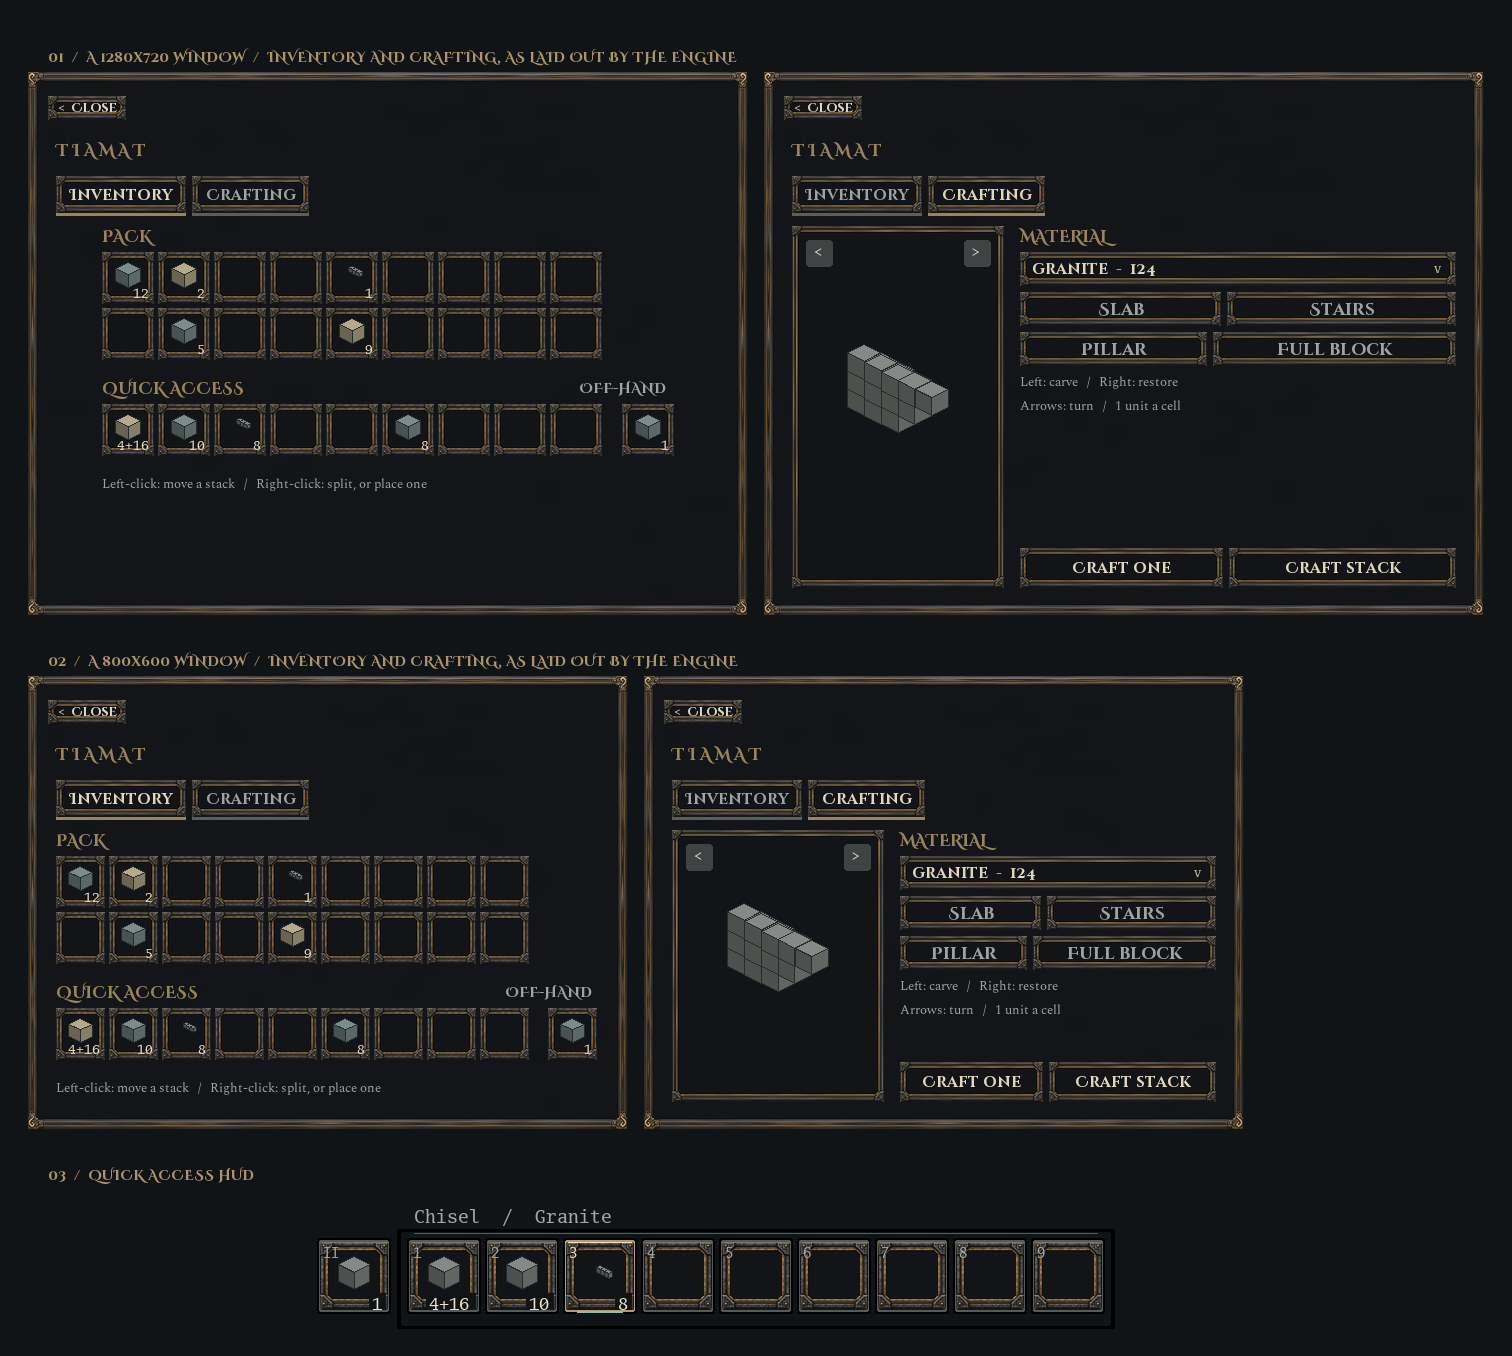
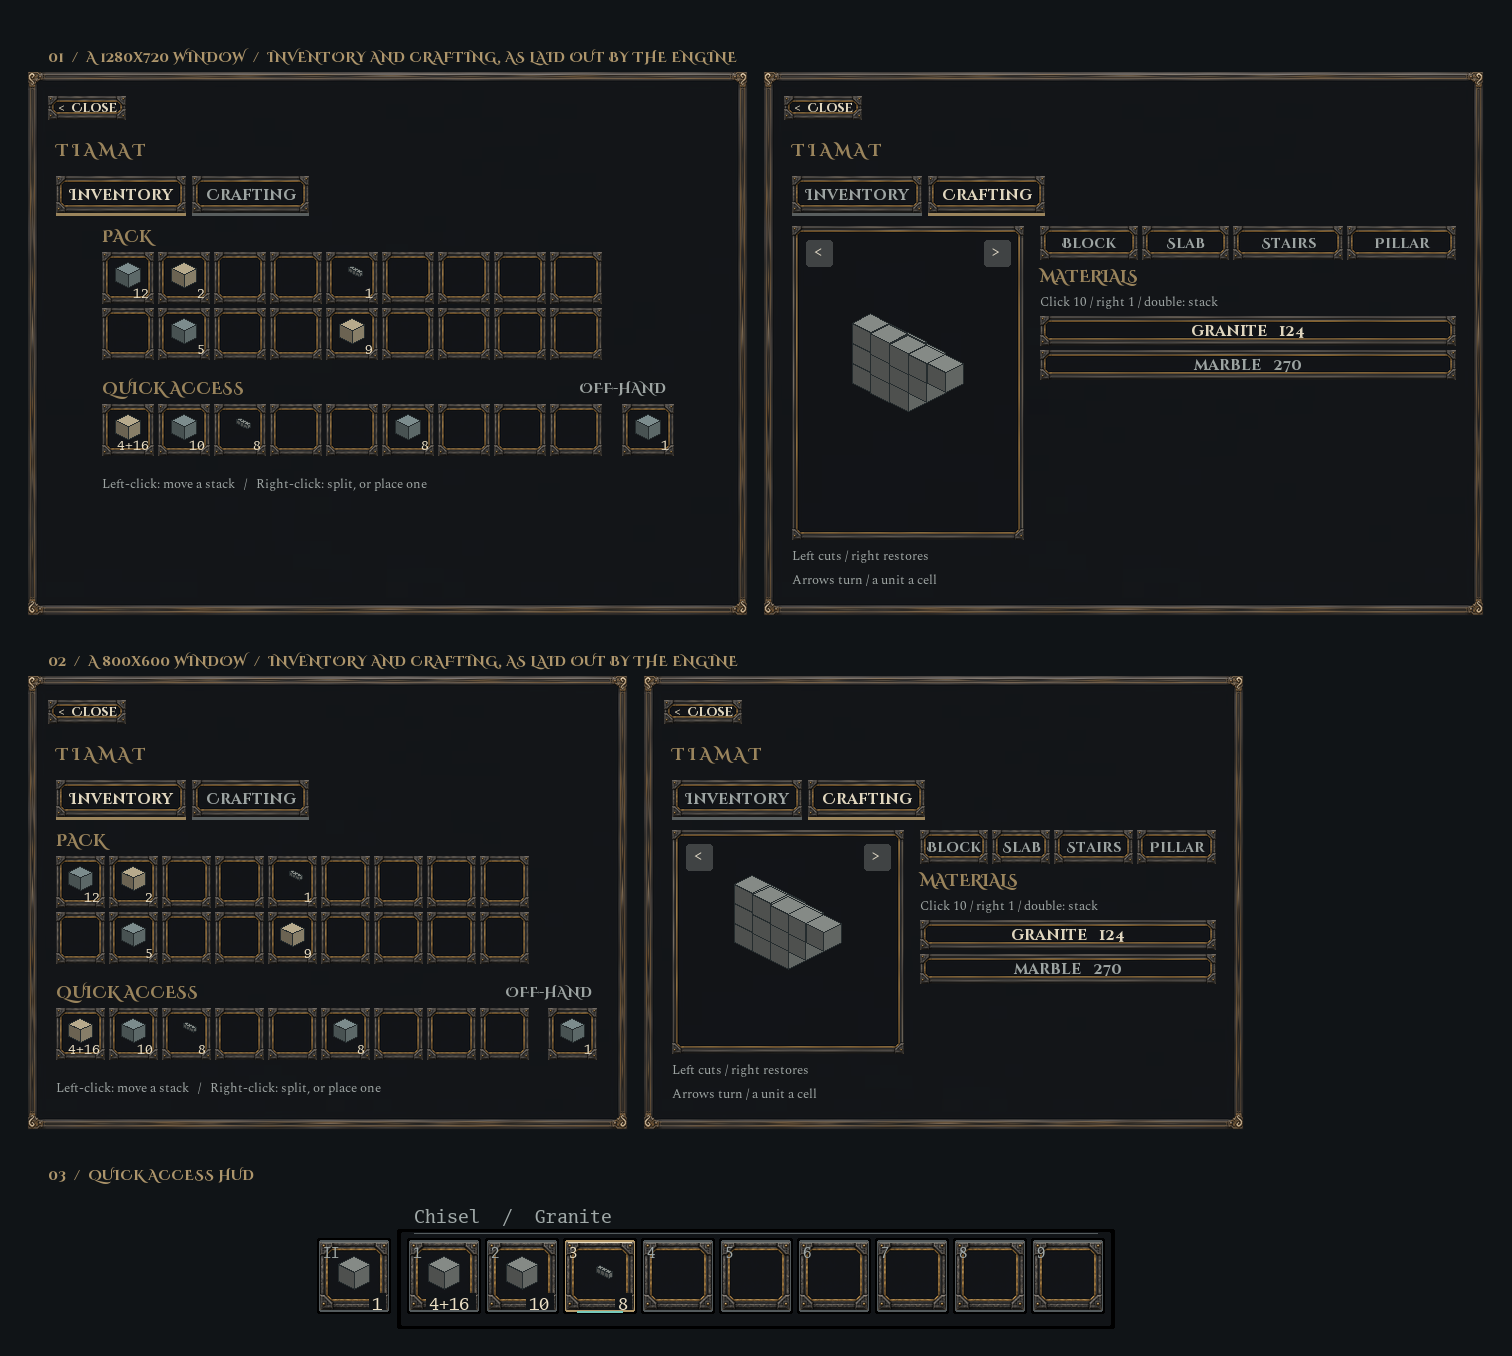
feat: the crafter is a cube and a list of materials you click
The dropdown and the Craft one / Craft stack buttons are gone. Carve on
the left; on the right the presets as one row, then every loose material
the player carries as a row that crafts the shape from itself: click for
10, right-click for 1, double-click to top up to a stack. Each row names
its own material, so a queued click never crafts from another one, and a
spent material leaves the list.

The list scrolls, the one place anything does: a pack holds up to 28
materials and the sheet has room for a handful. The native check lets a
scroll box's contents run past the sheet and measures everything else as
before. The result line stays on the empty screen, so the craft that used
the last material still says what it made, and it is shorter ("Made 10
granite") to fit the column at 800x600.

Right-click and double-click need the button's click on the event: engine
ask 17. Until then a press arrives without one and makes 10.

Changed region(s): [[0.5284, 0.1549, 0.9636, 0.4336], [0.4352, 0.5885, 0.8082, 0.8363], [0.4663, 0.6504, 0.5595, 0.7434]]

diff --git a/tests/native/src/main.rs b/tests/native/src/main.rs
@@ -35,6 +35,9 @@ use tiamat_core::{
 
 const MOD: &str = "tiamat_default_ui";
 const ALICE: [u8; 32] = [1; 32];
+/// The crafter's rows: clicking one crafts the carved shape from it.
+const GRANITE: &str = "m/fixture:granite";
+const MARBLE: &str = "m/fixture:marble";
 const BOB: [u8; 32] = [2; 32];
 
 fn mod_dir() -> PathBuf {
@@ -383,10 +386,10 @@ fn empty_crafter() {
 
 fn full_and_empty_masks_do_not_spend() {
     let mut r = Rig::crafter(&[], 90);
-    r.press(ALICE, "make");
+    r.press(ALICE, GRANITE);
     assert!(r.bag(|b| b.takes.is_empty()));
     r.event(ALICE, Wire::Chiselled { name: "cut".into(), shape: 0 });
-    r.press(ALICE, "make");
+    r.press(ALICE, GRANITE);
     assert!(r.bag(|b| b.takes.is_empty()));
     println!("ok  a full or empty mask spends nothing");
 }
@@ -395,46 +398,48 @@ fn presets_conserve_units() {
     for (preset, cost) in [("slab", 9), ("stairs", 18), ("pillar", 3)] {
         let mut r = Rig::crafter(&[], 90);
         r.press(ALICE, preset);
-        r.press(ALICE, "make");
+        r.press(ALICE, GRANITE);
+        // A click makes ten, or as many as 90 units allow.
+        let made = (90 / cost).min(10);
         let (take, give) = r.bag(|b| (b.takes[0], b.gives[0].clone()));
-        assert_eq!(take.1, cost, "{preset}");
+        assert_eq!(take.1, cost * made, "{preset}");
         let shape = give.shape.expect("a shaped stack");
-        assert_eq!(give.count(), 1);
+        assert_eq!(give.count(), made);
         assert_eq!(cells(shape.occupancy()) * give.count(), take.1, "{preset} created or destroyed units");
     }
     println!("ok  slab 9, stairs 18, pillar 3, and units are conserved");
 }
 
-fn stacks_are_limited() {
+fn a_click_makes_ten_or_what_there_is() {
     let mut r = Rig::crafter(&[], 100);
     r.press(ALICE, "slab");
-    r.press(ALICE, "make_stack");
-    assert_eq!(r.bag(|b| (b.gives[0].count(), b.takes[0].1)), (11, 99));
-    let mut r = Rig::crafter(&[], 10_000);
-    r.press(ALICE, "pillar");
-    r.press(ALICE, "make_stack");
-    assert_eq!(r.bag(|b| b.gives[0].count()), 90);
-    println!("ok  a stack is limited by material and by ITEMS_PER_STACK");
+    r.press(ALICE, GRANITE);
+    assert_eq!(r.bag(|b| (b.gives[0].count(), b.takes[0].1)), (10, 90));
+    let mut r = Rig::crafter(&[], 30);
+    r.press(ALICE, "slab");
+    r.press(ALICE, GRANITE);
+    assert_eq!(r.bag(|b| (b.gives[0].count(), b.takes[0].1)), (3, 27));
+    println!("ok  a click makes ten, or as many as the material allows");
 }
 
 fn failed_transactions_refund() {
     let mut r = Rig::crafter(&[], 2);
     r.press(ALICE, "pillar");
-    r.press(ALICE, "make");
+    r.press(ALICE, GRANITE);
     assert!(r.bag(|b| b.takes.is_empty()), "crafted with too little material");
 
     let mut r = Rig::crafter(&[], 90);
     r.press(ALICE, "slab");
     r.bag(|b| b.short_take = true);
-    r.press(ALICE, "make");
-    assert_eq!(r.bag(|b| b.gives[0].units), 8);
+    r.press(ALICE, GRANITE);
+    assert_eq!(r.bag(|b| b.gives[0].units), 89);
     assert_eq!(r.units(ALICE, r.granite), 90);
 
     let mut r = Rig::crafter(&[], 90);
     r.press(ALICE, "slab");
     r.bag(|b| b.shaped_room = Some(0));
-    r.press(ALICE, "make");
-    assert_eq!(r.bag(|b| b.gives[1].units), 9);
+    r.press(ALICE, GRANITE);
+    assert_eq!(r.bag(|b| b.gives[1].units), 90);
     assert_eq!(r.units(ALICE, r.granite), 90);
 
     // A full pack takes PART of a stack: what went in comes back out before
@@ -443,7 +448,7 @@ fn failed_transactions_refund() {
     let granite = r.granite;
     r.press(ALICE, "slab");
     r.bag(|b| b.shaped_room = Some(27));
-    r.press(ALICE, "make_stack");
+    r.press(ALICE, GRANITE);
     assert_eq!(r.units(ALICE, granite), 90, "material was lost or made");
     assert!(
         r.bag(|b| b.stacks[&ALICE].iter().all(|s| s.shape.is_none())),
@@ -453,21 +458,23 @@ fn failed_transactions_refund() {
     println!("ok  short takes, failed gives and part-fitting gives return every unit");
 }
 
-fn depleted_material_is_not_replaced() {
+fn a_row_crafts_only_its_own_material() {
     let mut r = Rig::crafter(&[], 9);
     let marble = r.marble;
     r.bag(|b| b.stacks.get_mut(&ALICE).unwrap().push(Stack::new(marble, 90).unwrap()));
     r.press(ALICE, "tab/shapes");
+    assert!(button(&r.last(), "granite   9").is_some() && has_name(&r.last(), MARBLE), "a row per material");
     r.press(ALICE, "slab");
-    r.press(ALICE, "make");
-    r.press(ALICE, "make");
+    r.press(ALICE, GRANITE);
+    // A queued click on a row that has just run out: granite is gone, and the
+    // click must not fall through to the marble below it.
+    r.press(ALICE, GRANITE);
     assert_eq!(r.bag(|b| b.takes.len()), 1, "the second click crafted from another material");
     assert_eq!(r.units(ALICE, marble), 90);
-    // Zero-based on the wire; the mod is told 2, the marble under the placeholder.
-    r.event(ALICE, Wire::Chose { name: "material".into(), index: 1 });
-    r.press(ALICE, "make");
+    assert!(!has_name(&r.last(), GRANITE), "a spent material keeps its row");
+    r.press(ALICE, MARBLE);
     assert_eq!(r.bag(|b| b.takes[1].0), marble);
-    println!("ok  running out never switches material behind the player's back");
+    println!("ok  a row crafts only its own material, and a spent one leaves the list");
 }
 
 fn named_and_shaped_stacks_are_kept() {
@@ -477,7 +484,7 @@ fn named_and_shaped_stacks_are_kept() {
     r.stock(ALICE, vec![named, cut]);
     r.press(ALICE, "reset");
     assert!(!has_editor(&r.last()));
-    r.press(ALICE, "make");
+    r.press(ALICE, GRANITE);
     assert!(r.bag(|b| b.takes.is_empty()));
     println!("ok  named and already-cut stacks are never material");
 }
@@ -489,8 +496,8 @@ fn players_are_isolated() {
     assert!(slots(&r.last()).contains(&28), "bob should see his own inventory tab");
     r.key(BOB);
     r.event(ALICE, Wire::Chiselled { name: "cut".into(), shape: 1 << 27 });
-    r.press(ALICE, "make");
-    assert_eq!(r.bag(|b| b.takes[0].1), 9, "an out-of-range mask was adopted");
+    r.press(ALICE, GRANITE);
+    assert_eq!(r.bag(|b| b.takes[0].1), 90, "an out-of-range mask was adopted");
     r.leave(ALICE);
     r.key(ALICE);
     assert!(slots(&r.last()).contains(&10), "leaving should reset to the inventory tab");
@@ -506,8 +513,8 @@ fn carving_does_not_echo() {
     let before = r.sent();
     r.event(ALICE, Wire::Chiselled { name: "cut".into(), shape: 7 });
     assert_eq!(r.sent(), before, "a carve sent a tree back");
-    r.press(ALICE, "make");
-    assert_eq!(r.bag(|b| (b.gives[0].shape.map(Shape::occupancy), b.takes[0].1)), (Some(7), 3));
+    r.press(ALICE, GRANITE);
+    assert_eq!(r.bag(|b| (b.gives[0].shape.map(Shape::occupancy), b.takes[0].1)), (Some(7), 30));
     println!("ok  carving never echoes a stale mask");
 }
 
@@ -839,7 +846,6 @@ fn walk_fit(tree: &Tree, at: usize, laid: &ui::Laid, parent: Option<ui::Rect>, f
         found.push(format!("{} spills out of its parent: {r:?} in {p:?}", what()));
     }
     match &node.widget {
-        Widget::Scroll => found.push("a scroll box".into()),
         Widget::ItemSlot { index, .. } => {
             if r.w.min(r.h) < 36 {
                 found.push(format!("slot {} is {}x{}, too small to use", index + 1, r.w, r.h));
@@ -868,9 +874,16 @@ fn walk_fit(tree: &Tree, at: usize, laid: &ui::Laid, parent: Option<ui::Rect>, f
         }
         _ => {}
     }
+    // A scroll box's contents may be as tall as they like: that is what the
+    // box is for. Across, they must still fit.
+    let inside = if matches!(node.widget, Widget::Scroll) {
+        ui::Rect::new(r.x, i32::MIN / 4, r.w, i32::MAX / 2)
+    } else {
+        r
+    };
     let first = node.children.first as usize;
     for (n, child) in laid.children.iter().enumerate() {
-        walk_fit(tree, first + n, child, Some(r), found);
+        walk_fit(tree, first + n, child, Some(inside), found);
     }
 }
 
@@ -995,7 +1008,7 @@ fn craft_messages() -> Vec<String> {
         .map(str::to_owned)
         .collect();
     let most = game_items_per_stack();
-    found.push(format!("Crafted {most}  /  {} units used", most * 26));
+    found.push(format!("Made {most} weathered sandstone"));
     assert!(found.len() >= 7, "expected crafting.lua's messages, found {found:?}");
     found
 }
@@ -1008,14 +1021,16 @@ fn game_items_per_stack() -> u32 {
 /// fit the width the crafter gives it, at every window size. They are
 /// sentences, so they are in the text face.
 fn craft_messages_fit() {
-    let mut r = Rig::crafter(&[], 90);
+    // Material left over, so the line is measured in the crafter's column
+    // rather than on the wider empty screen.
+    let mut r = Rig::crafter(&[], 900);
     r.press(ALICE, "stairs");
-    r.press(ALICE, "make");
+    r.press(ALICE, GRANITE);
     let tree = r.last();
     let at = tree
         .nodes
         .iter()
-        .position(|n| matches!(&n.widget, Widget::Label { text } if text.starts_with("Crafted")))
+        .position(|n| matches!(&n.widget, Widget::Label { text } if text.starts_with("Made ")))
         .expect("a craft reports itself");
     let style = &tree.nodes[at].style;
     assert_eq!(style.font.as_deref(), Some(TEXT_FONT), "the result line is a sentence");
@@ -1346,9 +1361,9 @@ fn main() {
     empty_crafter();
     full_and_empty_masks_do_not_spend();
     presets_conserve_units();
-    stacks_are_limited();
+    a_click_makes_ten_or_what_there_is();
     failed_transactions_refund();
-    depleted_material_is_not_replaced();
+    a_row_crafts_only_its_own_material();
     named_and_shaped_stacks_are_kept();
     players_are_isolated();
     carving_does_not_echo();

diff --git a/docs/engine-asks.md b/docs/engine-asks.md
@@ -29,6 +29,27 @@ rectangle rather than a bottom band (a HUD saying "keep clear of the bottom
 right, 150 by 360"), with sheets narrowing before they overlap it. The mod
 cannot move a sheet itself.
 
+## 17. Which click pressed a button (2026-09-29)
+
+The crafter makes a shape from the material row a player clicks: click for
+ten, right-click for one, double-click to fill a stack, as a chest works in
+the game this is modelled on. It is the difference between a screen of rows
+and a screen of rows plus a count picker and two craft buttons.
+
+The mod cannot tell the clicks apart: `"pressed"` carries only `name`. The
+client's button already has egui's response, which knows
+`secondary_clicked` and `double_clicked`; only the event drops it. (An
+`item_slot` reports `click`, but the server moves stacks on it before the
+mod hears, so a slot cannot stand in for a button.)
+
+Smallest change: `click` on `"pressed"`: `"left"`, `"right"`, or `"double"`
+for the second press of a double-click in place of a second `"left"`, since
+egui reports the first half as a click of its own. A right-click on a button
+presses it (today it does nothing). A mod that ignores `click` sees exactly
+what it sees now. `tab_shapes.lua` already reads `event.click`, treating nil
+as a left click, so the crafter works as designed the day this lands and the
+native check can then drive all three.
+
 ## 16. The shape editor draws a black cube (2026-09-28)
 
 Reported from the window: with a material chosen, the Crafting tab's shape

diff --git a/README.md b/README.md
@@ -111,11 +111,15 @@ Press **E** (rebindable) to open and close the screen.
   off-hand, and the inventory holds no more than that: a full pack refuses a
   pickup rather than hiding it. Worn slots are separate views and not counted.
   Left-click moves a stack, right-click splits or places one.
-- **Crafting.** Choose a loose material, then carve: left-click takes a
-  cell off, right-click restores one, the arrows turn the shape. Each occupied
-  cell costs one unit, so a slab is 9, stairs 18 and a pillar 3. **Craft one**
-  makes one; **Craft stack** makes as many as the material and a stack allow.
-  Named stacks and already-cut stacks are never used as material.
+- **Crafting.** Carve the cube on the left: left-click takes a cell off,
+  right-click restores one, the arrows turn it, and Block, Slab, Stairs and
+  Pillar start you from a preset. Then click a material in the list on the
+  right to make the shape from it: click for 10, right-click for 1,
+  double-click to fill a stack (right-click and double-click wait on engine
+  ask 17; until then every click makes 10). Each occupied cell costs one unit,
+  so a slab is 9, stairs 18 and a pillar 3, and a click makes as many as the
+  material allows. Named stacks and already-cut stacks are never used as
+  material.
 
 ## For other mods
 
